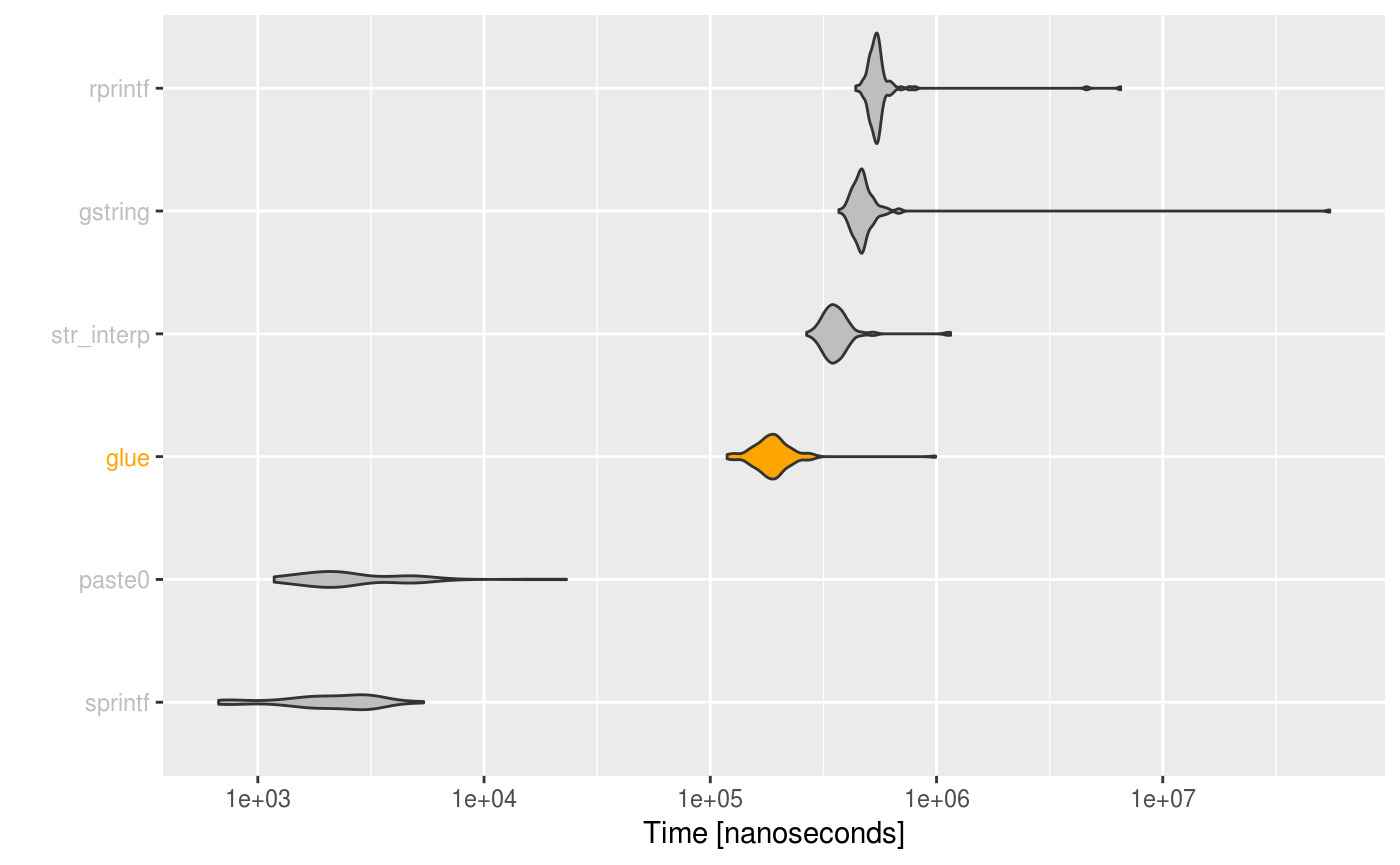
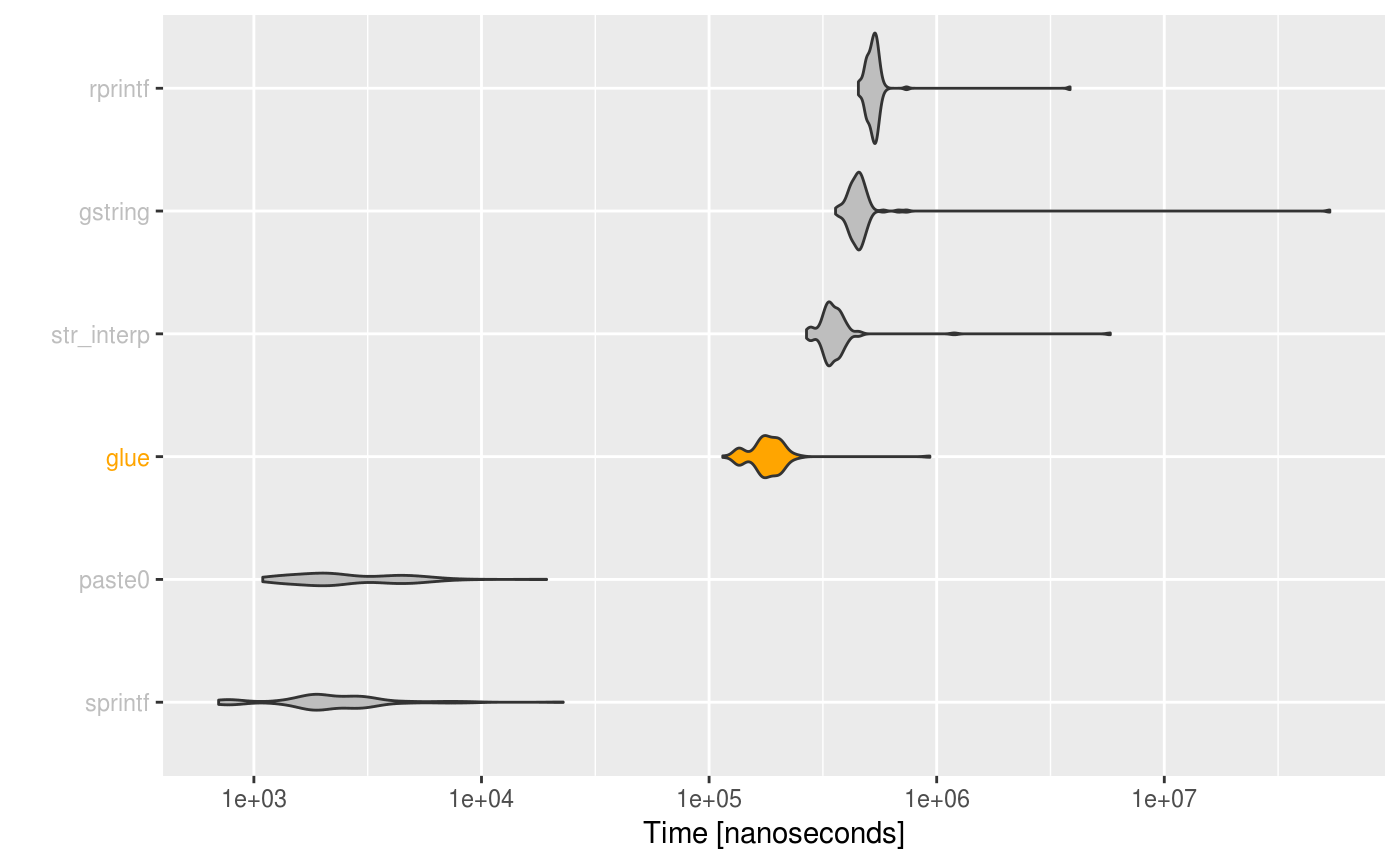
Built site for glue: 1.3.1@b35f0fe

diff --git a/articles/speed.html b/articles/speed.html
@@ -144,13 +144,13 @@
 <a class="sourceLine" id="cb1-12" data-line-number="12"></a>
 <a class="sourceLine" id="cb1-13" data-line-number="13"><span class="kw"><a href="https://www.rdocumentation.org/packages/base/topics/print">print</a></span>(<span class="dt">unit =</span> <span class="st">"eps"</span>, <span class="dt">order =</span> <span class="st">"median"</span>, <span class="dt">signif =</span> <span class="dv">4</span>, simple)</a>
 <a class="sourceLine" id="cb1-14" data-line-number="14"><span class="co">#&gt; Unit: evaluations per second</span></a>
-<a class="sourceLine" id="cb1-15" data-line-number="15"><span class="co">#&gt;        expr       min     lq   mean median     uq     max neval</span></a>
-<a class="sourceLine" id="cb1-16" data-line-number="16"><span class="co">#&gt;     rprintf    153.40   1784   1817   1852   1938    2276   100</span></a>
-<a class="sourceLine" id="cb1-17" data-line-number="17"><span class="co">#&gt;     gstring     18.26   2025   2116   2136   2266    2702   100</span></a>
-<a class="sourceLine" id="cb1-18" data-line-number="18"><span class="co">#&gt;  str_interp    866.40   2612   2800   2834   3063    3753   100</span></a>
-<a class="sourceLine" id="cb1-19" data-line-number="19"><span class="co">#&gt;        glue   1010.00   4907   5424   5345   5988    8427   100</span></a>
-<a class="sourceLine" id="cb1-20" data-line-number="20"><span class="co">#&gt;      paste0  43210.00 266700 441300 439100 572400  846700   100</span></a>
-<a class="sourceLine" id="cb1-21" data-line-number="21"><span class="co">#&gt;     sprintf 184900.00 327100 569200 466300 623500 1490000   100</span></a>
+<a class="sourceLine" id="cb1-15" data-line-number="15"><span class="co">#&gt;        expr      min     lq   mean median     uq     max neval</span></a>
+<a class="sourceLine" id="cb1-16" data-line-number="16"><span class="co">#&gt;     rprintf   259.30   1833   1897   1899   2001    2208   100</span></a>
+<a class="sourceLine" id="cb1-17" data-line-number="17"><span class="co">#&gt;     gstring    18.74   2112   2212   2219   2359    2782   100</span></a>
+<a class="sourceLine" id="cb1-18" data-line-number="18"><span class="co">#&gt;  str_interp   172.60   2673   2855   2914   3071    3732   100</span></a>
+<a class="sourceLine" id="cb1-19" data-line-number="19"><span class="co">#&gt;        glue  1071.00   4990   5661   5540   6030    8709   100</span></a>
+<a class="sourceLine" id="cb1-20" data-line-number="20"><span class="co">#&gt;      paste0 51750.00 241200 444100 443500 578900  914100   100</span></a>
+<a class="sourceLine" id="cb1-21" data-line-number="21"><span class="co">#&gt;     sprintf 43740.00 346000 547800 485100 589600 1429000   100</span></a>
 <a class="sourceLine" id="cb1-22" data-line-number="22"></a>
 <a class="sourceLine" id="cb1-23" data-line-number="23"><span class="kw">plot_comparison</span>(simple)</a></code></pre></div>
 <p><img src="speed_files/figure-html/unnamed-chunk-1-1.png" width="700"></p>
@@ -178,11 +178,11 @@
 <a class="sourceLine" id="cb2-12" data-line-number="12"><span class="kw"><a href="https://www.rdocumentation.org/packages/base/topics/print">print</a></span>(<span class="dt">unit =</span> <span class="st">"ms"</span>, <span class="dt">order =</span> <span class="st">"median"</span>, <span class="dt">signif =</span> <span class="dv">4</span>, vectorized)</a>
 <a class="sourceLine" id="cb2-13" data-line-number="13"><span class="co">#&gt; Unit: milliseconds</span></a>
 <a class="sourceLine" id="cb2-14" data-line-number="14"><span class="co">#&gt;     expr   min    lq  mean median    uq   max neval</span></a>
-<a class="sourceLine" id="cb2-15" data-line-number="15"><span class="co">#&gt;  sprintf 13.69 13.87 14.26  13.97 14.18 19.62   100</span></a>
-<a class="sourceLine" id="cb2-16" data-line-number="16"><span class="co">#&gt;   paste0 16.11 16.76 17.19  17.08 17.52 20.03   100</span></a>
-<a class="sourceLine" id="cb2-17" data-line-number="17"><span class="co">#&gt;     glue 17.95 18.69 19.63  19.21 19.81 26.79   100</span></a>
-<a class="sourceLine" id="cb2-18" data-line-number="18"><span class="co">#&gt;  gstring 34.86 35.64 36.48  36.16 36.61 43.37   100</span></a>
-<a class="sourceLine" id="cb2-19" data-line-number="19"><span class="co">#&gt;  rprintf 53.91 54.45 55.40  54.91 55.82 61.11   100</span></a>
+<a class="sourceLine" id="cb2-15" data-line-number="15"><span class="co">#&gt;  sprintf 13.43 13.53 13.87  13.58 13.90 18.20   100</span></a>
+<a class="sourceLine" id="cb2-16" data-line-number="16"><span class="co">#&gt;   paste0 15.81 16.13 16.53  16.38 16.78 20.23   100</span></a>
+<a class="sourceLine" id="cb2-17" data-line-number="17"><span class="co">#&gt;     glue 17.48 17.94 18.63  18.30 18.89 23.20   100</span></a>
+<a class="sourceLine" id="cb2-18" data-line-number="18"><span class="co">#&gt;  gstring 34.20 34.66 35.43  34.98 35.65 41.80   100</span></a>
+<a class="sourceLine" id="cb2-19" data-line-number="19"><span class="co">#&gt;  rprintf 53.34 53.66 54.54  54.04 54.53 60.94   100</span></a>
 <a class="sourceLine" id="cb2-20" data-line-number="20"></a>
 <a class="sourceLine" id="cb2-21" data-line-number="21"><span class="kw">plot_comparison</span>(vectorized, <span class="dt">log =</span> <span class="ot">FALSE</span>)</a></code></pre></div>
 <p><img src="speed_files/figure-html/unnamed-chunk-2-1.png" width="700"></p>

diff --git a/news/index.html b/news/index.html
@@ -142,7 +142,7 @@
 
     <div id="glue-1-3-1" class="section level1">
 <h1 class="page-header">
-<a href="#glue-1-3-1" class="anchor"></a>glue 1.3.1<small> Unreleased </small>
+<a href="#glue-1-3-1" class="anchor"></a>glue 1.3.1<small> 2019-03-12 </small>
 </h1>
 <div id="features" class="section level2">
 <h2 class="hasAnchor">
@@ -150,6 +150,8 @@
 <ul>
 <li>
 <code><a href="../reference/glue.html">glue()</a></code> now has a <code>+</code> method to combine strings.</li>
+<li>
+<code><a href="../reference/glue_sql.html">glue_sql()</a></code> now collapses zero-length vector into <code><a href="https://www.rdocumentation.org/packages/DBI/topics/SQL">DBI::SQL("NULL")</a></code> (<a href='https://github.com/tidyverse/glue/issues/134'>#134</a> <a href='https://github.com/shrektan'>@shrektan</a>).</li>
 </ul>
 </div>
 <div id="bugfixes-and-minor-changes" class="section level2">

diff --git a/index.html b/index.html
@@ -127,7 +127,7 @@
 <a class="sourceLine" id="cb1-3" data-line-number="3"></a>
 <a class="sourceLine" id="cb1-4" data-line-number="4"><span class="co"># Install the development version from GitHub:</span></a>
 <a class="sourceLine" id="cb1-5" data-line-number="5"><span class="co"># install.packages("devtools")</span></a>
-<a class="sourceLine" id="cb1-6" data-line-number="6">devtools<span class="op">::</span><span class="kw"><a href="https://www.rdocumentation.org/packages/devtools/topics/reexports">install_github</a></span>(<span class="st">"tidyverse/glue"</span>)</a></code></pre></div>
+<a class="sourceLine" id="cb1-6" data-line-number="6">devtools<span class="op">::</span><span class="kw">install_github</span>(<span class="st">"tidyverse/glue"</span>)</a></code></pre></div>
 </div>
 <div id="usage" class="section level2">
 <h2 class="hasAnchor">
